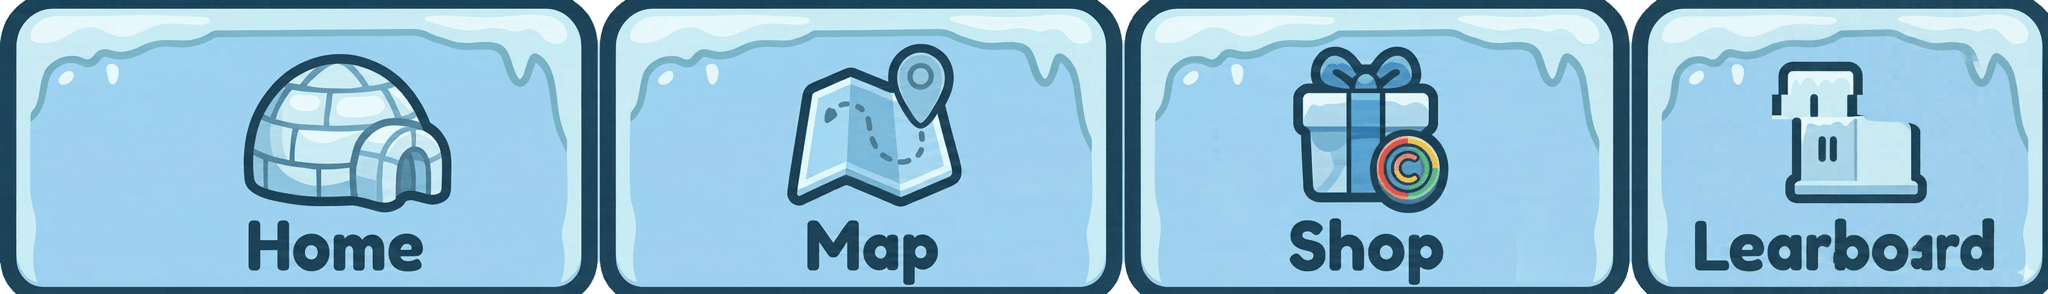
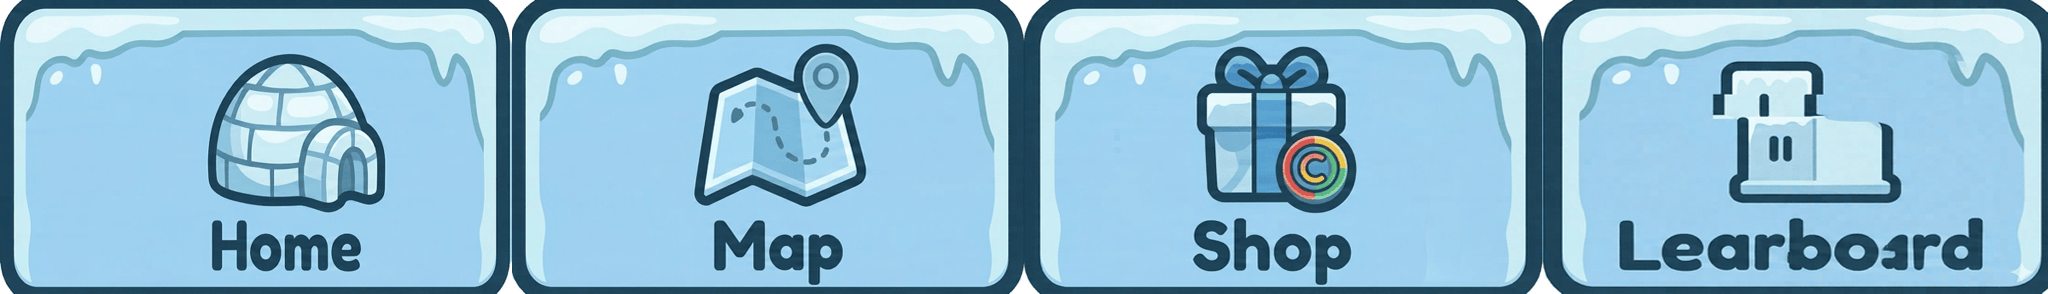
fix main nav and powerup position

diff --git a/src/style.css b/src/style.css
@@ -1362,7 +1362,7 @@ body[data-screen="game"] {
   align-items: center;
   justify-content: center;
   /* Horizontal space between pills — % of this container’s width */
-  column-gap: 1.5%;
+  column-gap: 0.5%;
   box-sizing: border-box;
 }
 
@@ -1381,27 +1381,28 @@ body[data-screen="game"] {
 }
 
 .nav-btn[data-page="home"] {
-  width: 22%;
-  height: 40%;
+  width: 25%;
+  height: 90%;
 }
 
 .nav-btn[data-page="map"] {
-  width: 22%;
-  height: 40%;
+  width: 25%;
+  height: 90%;
 }
 
 .nav-btn[data-page="shop"] {
-  width: 22%;
-  height: 40%;
+  width: 25%;
+  height: 90%;
 }
 
 .nav-btn[data-page="leaderboard"] {
-  width: 22%;
-  height: 40%;
+  width: 25%;
+  height: 90%;
 }
 
 .nav-btn:active {
   transform: scale(0.93);
+  cursor: pointer;
 }
 
 /* ── Ice glow shine on hover ── */
@@ -1452,12 +1453,46 @@ body[data-screen="game"] {
   opacity: 1;
 }
 
-/* Active page */
+/* Active page — barely-there glass; mostly a soft rim */
+.nav-btn.active {
+  background: rgba(200, 245, 255, 0.55);
+  box-shadow:
+    inset 0 0 0 1px rgba(180, 230, 255, 0.55),
+    inset 0 1px 0 rgba(255, 255, 255, 0.55);
+}
+
+/* Very faint top line (optional read on dark slots) */
+.nav-btn.active::before {
+  content: '';
+  position: absolute;
+  top: 0;
+  left: 18%;
+  width: 64%;
+  height: 1px;
+  border-radius: 0 0 2px 2px;
+  background: linear-gradient(
+    90deg,
+    transparent,
+    rgba(200, 235, 255, 0.22) 40%,
+    rgba(235, 250, 255, 0.35) 50%,
+    rgba(200, 235, 255, 0.22) 60%,
+    transparent
+  );
+  opacity: 0.65;
+  pointer-events: none;
+}
+
 .nav-btn.active .nav-btn__glow {
-  opacity: 0.4;
+  opacity: 0.42;
 }
 .nav-btn.active .nav-btn__glow::after {
   display: none;
+}
+
+/* Restore full glow when hovering the active button */
+.nav-btn.active:hover .nav-btn__glow,
+.nav-btn.active:focus-visible .nav-btn__glow {
+  opacity: 1;
 }
 
 /* Hide during loading & game */
@@ -1555,15 +1590,16 @@ body[data-screen="game"] .nav-bar {
 /* ── Variant: start popup (map) ─────────────────────────── */
 .pop-shards {
   position: absolute;
-  bottom: 25%;
+  bottom: 26%;
   left: 50%;
   transform: translateX(-50%);
   display: flex;
-  gap: 10px;
+  gap: 29px;
   justify-content: center;
   align-items: center;
   pointer-events: none;
 }
+
 .pop-shards .shard-slot {
   flex: 0 0 auto;
   width: 58px;
@@ -1574,7 +1610,18 @@ body[data-screen="game"] .nav-bar {
   justify-content: center;
   align-items: center;
   box-sizing: border-box;
+  pointer-events: auto;
+  cursor: default;
 }
+
+/* Nudge 2nd / 3rd slots to match background art (avoid transform: conflicts with shard-pop) */
+.pop-shards .shard-slot:nth-child(2) {
+  left: -4px;
+}
+.pop-shards .shard-slot:nth-child(3) {
+  left: -7px;
+}
+
 .pop-shards .shard-slot__icon {
   width: 68%;
   height: 68%;